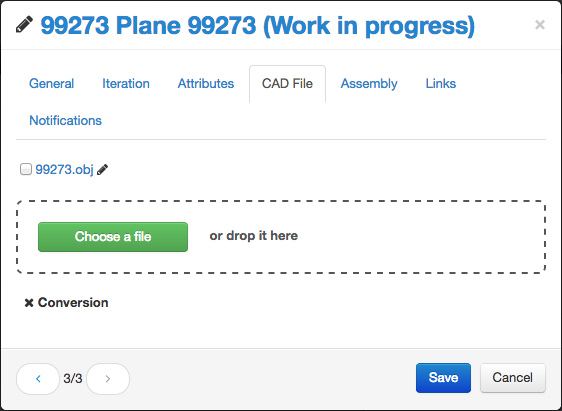
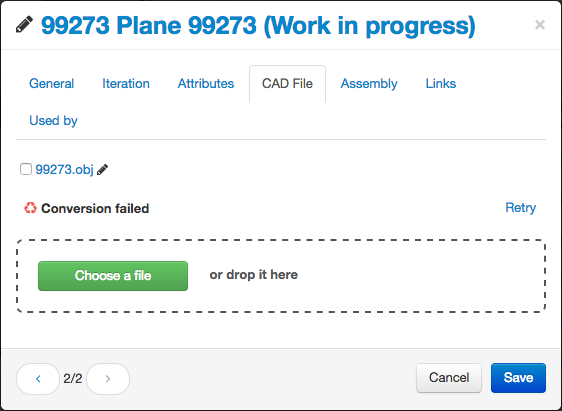
new screenshots for CAD file conversion

diff --git a/app/_i18n/fr/Documentation_dev.md b/app/_i18n/fr/Documentation_dev.md
@@ -362,6 +362,10 @@ Cet onglet permet d'associer un fichier CAO à l'article. Si vous choisissez un 
 
 {% image /assets/images/documentation/dev/fr/image51.png "Vue Fichier CAO"%}
 
+DocDokuPLM doit convertir les fichiers CAO au format obj pour permettre la visualisation 3D. Cette conversion se fait automatiquement à la suite de l'ajout d'un fichier CAO. Si elle échoue, vous pouvez la relancer manuellement en cliquant sur "Ré-essayer".
+
+Voici la liste complète des formats supportés : dxf, obj, off, ply, stl, 3ds, wrl.
+
 ###Assemblage d’articles
 
 Lors de la modification d’un article, vous pouvez définir son assemblage. Un assemblage est composé d'autres articles (sous-article).
@@ -598,12 +602,6 @@ Le téléchargement d'un fichier se lance en cliquant sur son nom et la suppress
 {% image /assets/images/documentation/dev/file_delete.png "Suppression du fichier"%}
 
 N'oubliez pas de cliquer sur le bouton Enregistrer de la fenêtre pour valider vos modifications.
-
-##Conversion de fichier CAO
-
-DocDokuPLM doit convertir les fichiers CAO au format obj pour permettre la visualisation 3D. Cette conversion se fait automatiquement à la suite de l'ajout d'un fichier CAO.
-
-Voici la liste complète des formats supportés : dxf, obj, off, ply, stl, 3ds, wrl.
 
 ##Conversion PDF
 

diff --git a/app/_i18n/en/Documentation_dev.md b/app/_i18n/en/Documentation_dev.md
@@ -340,6 +340,10 @@ This tab allows you to associate a CAD file to the part. If you choose a file wh
 
 {% image /assets/images/documentation/dev/en/image51.png "CAD File view"%}
 
+DocDokuPLM must convert CAD files to obj format to enable the 3D visualization. This conversion runs automatically after you add the CAD file. If the operation fails, you can retry it manually.
+
+Here is the exhaustive list of supported formats: dxf, obj, off, ply, stl, 3ds, wrl.
+
 ###Part assembly
 
 When modifying a part, you can edit the assembly composition. An assembly is composed of other parts (subparts).
@@ -579,12 +583,6 @@ You can download a file by clicking on its name and delete files by selecting th
 {% image /assets/images/documentation/dev/file_delete.png "File deletion"%}
 
 Do not forget to press on the modal Save button to validate your modifications.
-
-##CAD File conversion
-
-DocDokuPLM must convert CAD files to obj format to enable the 3D visualization. This conversion runs automatically after you add the CAD file.
-
-Here is the exhaustive list of supported formats: dxf, obj, off, ply, stl, 3ds, wrl.
 
 ##PDF conversion
 
